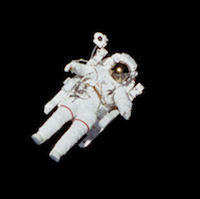
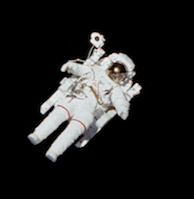
adjusted images in About section

diff --git a/index.html b/index.html
@@ -103,35 +103,22 @@
                     <ul class="timeline">
                         <li>
                             <div class="timeline-image">
-                                <img class="img-circle img-responsive" src="img/about/nebula.png" alt="">
+                                <img class="img-circle img-responsive" src="img/about/astronaut.png" alt="">
                             </div>
                             <div class="timeline-panel">
                                 <div class="timeline-heading">
                                     <!-- <h4>XXXX-XXXX</h4> -->
                                     <!-- <h4>Marketing &amp; Sales</h4> -->
-                                    <h4 class="subheading">Marketing Moxie</h4>
-                                    <h4 class="subheading">Whenever I encountered inefficient manual processes, I advocated for the adoption of technology. ... in marketing and sales roles and ...mention industry-leading firms: Westwood One, Steelcase, Sanofi</h4>
+                                    <h4 class="subheading">User Experience & Strategy Programs</h4>
+                                    <h4 class="subheading">brought in software engineers for marketing programs. Whenever I encountered inefficient manual processes, I advocated for the adoption of technology. ... in marketing and sales roles and ...mention industry-leading firms: Westwood One, Steelcase, Sanofi</h4>
                                 </div>
                                 <div class="timeline-body">
-                                    <p class="text-muted">Whenever I encountered inefficient manual processes, I advocated for the adoption of technology. ... in marketing and sales roles and ... </p>
+                                    <p class="text-muted">brought in software engineers for marketing programs. Whenever I encountered inefficient manual processes, I advocated for the adoption of technology. ... in marketing and sales roles and ... </p>
                                 </div>
                             </div>
                         </li>
+
                         <li class="timeline-inverted">
-                            <div class="timeline-image">
-                                <img class="img-circle img-responsive" src="img/about/astronaut.png" alt="">
-                            </div>
-                            <div class="timeline-panel">
-                                <div class="timeline-heading">
-                                  <!-- <h4>XXXX-XXXX</h4> -->
-                                    <h4 class="subheading">User Experience &amp; Strategic Programs</h4>
-                                </div>
-                                <div class="timeline-body">
-                                    <p class="text-muted">brought in software engineers for marketing programs </p>
-                                </div>
-                            </div>
-                        </li>
-                        <li>
                             <div class="timeline-image">
                                 <img class="img-circle img-responsive" src="img/about/space-shuttle2.png" alt="">
                             </div>
@@ -141,25 +128,42 @@
                                     <h4 class="subheading">Strategy Consulting across 3 Continents</h4>
                                 </div>
                                 <div class="timeline-body">
-                                    <p class="text-muted">Oxford MBA; talk about data strategy and hardware projects</p>
+                                    <p class="text-muted">Oxford MBA; talk about data strategy and hardware projects </p>
                                 </div>
                             </div>
                         </li>
-                        <li class="timeline-inverted">
+
+                        <li>
                             <div class="timeline-image">
                                 <img class="img-circle img-responsive" src="img/about/space-arm.png" alt="">
                             </div>
                             <div class="timeline-panel">
                                 <div class="timeline-heading">
-                                <!-- <h4>XXXX-XXXX</h4> -->
+                                  <!-- <h4>XXXX-XXXX</h4> -->
                                     <h4 class="subheading">Transition to Software Development</h4>
+                                </div>
+                                <div class="timeline-body">
+                                    <p class="text-muted">xxxx</p>
+                                </div>
+                            </div>
+                        </li>
+
+                        <li class="timeline-inverted">
+                            <div class="timeline-image">
+                                <img class="img-circle img-responsive" src="img/about/lights_resize.png" alt="">
+                            </div>
+                            <div class="timeline-panel">
+                                <div class="timeline-heading">
+                                <!-- <h4>XXXX-XXXX</h4> -->
+                                    <h4 class="subheading">xxxx</h4>
                                 </div>
                                 <div class="timeline-body">
                                     <p class="text-muted">xxxxx</p>
                                 </div>
                             </div>
                         </li>
-                        <li class="timeline-inverted">
+
+                        <li>
                             <a class="page-scroll" href="#contact">
                                 <div class="timeline-image">
                                     <h4>Be Part
